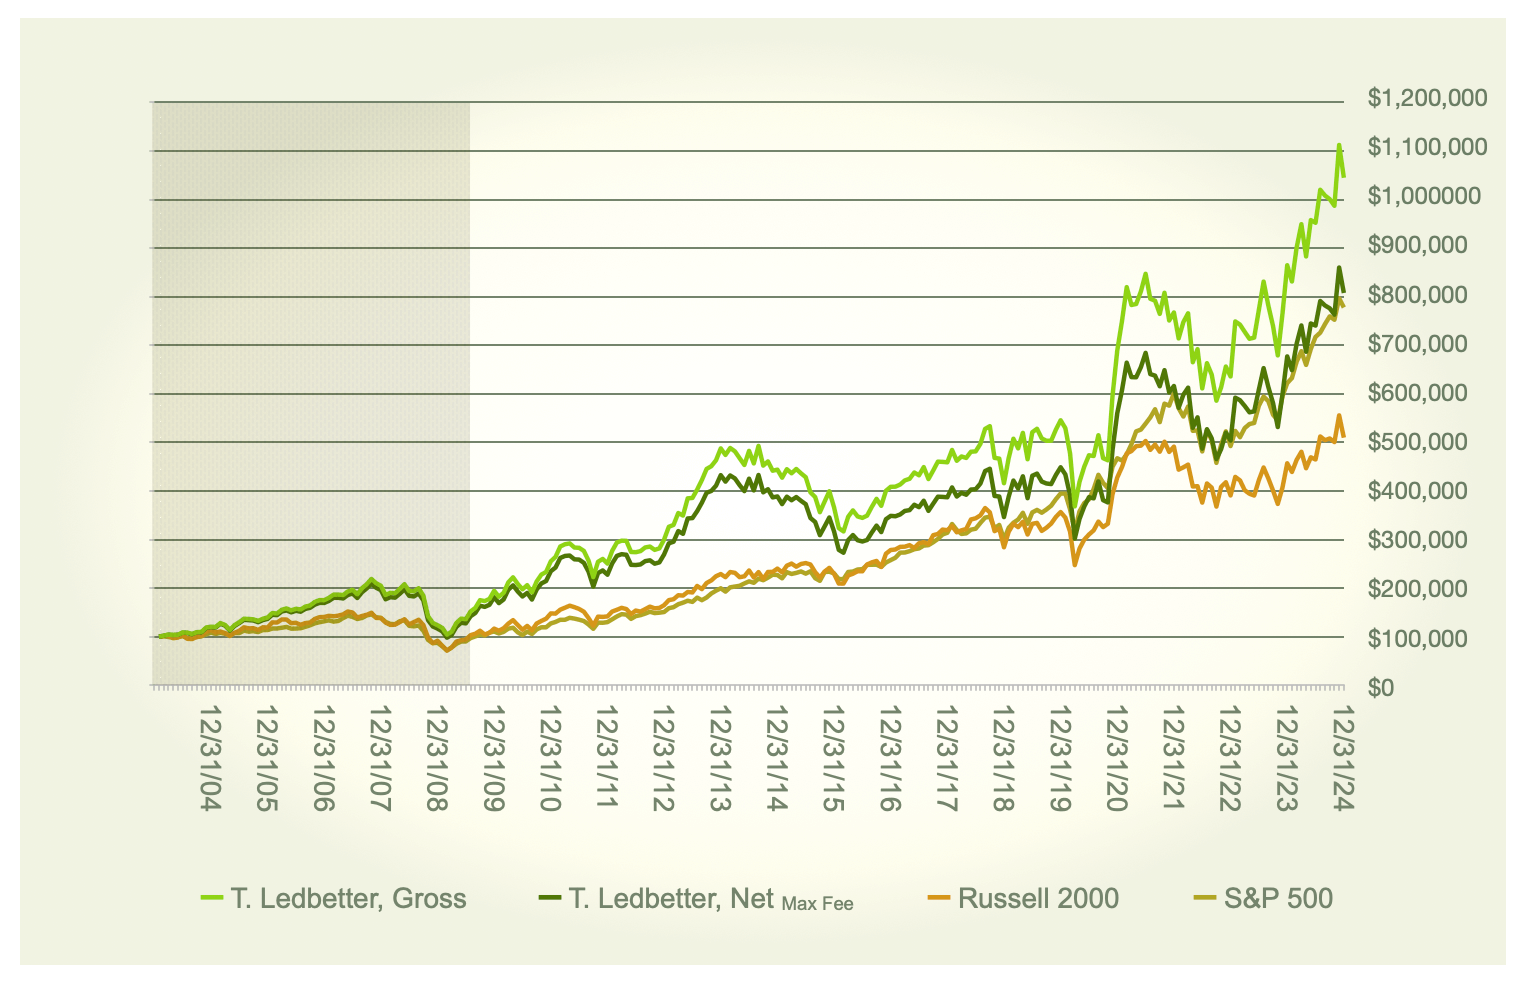
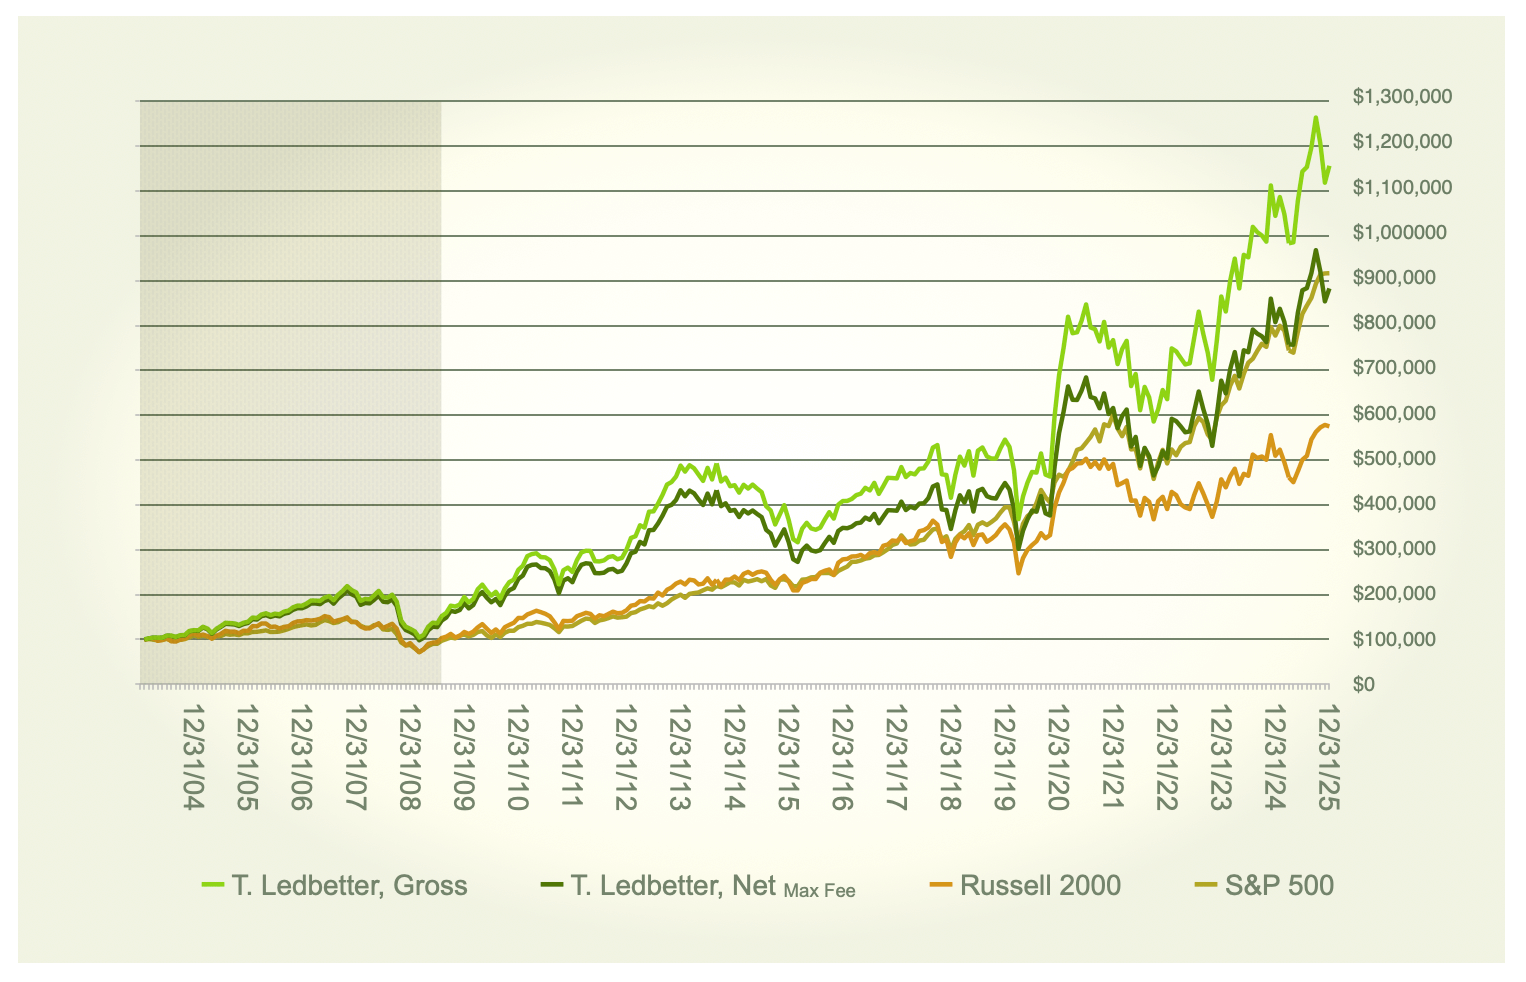
jan 2026 updates

diff --git a/performance.html b/performance.html
@@ -16,7 +16,7 @@ title: Performance
         <br>of Terry Ledbetter, <div style="display:inline-block"> Jr., CFA</div>
       </h1>
 
-      <div class="performSubHead" class="subHead">Growth of $100,000 from 2/3/04 to 12/31/24</div>
+      <div class="performSubHead" class="subHead">Growth of $100,000 from 2/3/04 to 12/31/25</div>
     </div>
   </div><!--end row -->
 
@@ -44,7 +44,7 @@ title: Performance
     <div class="span10 offset1">
       <h1 class="performHead">Historical Performance<br> of Kopion Asset Management, LLC </h1>
 
-      <div class="performSubHead" class="subHead">Growth of $100,000 from 8/23/09 to 12/31/24</div>
+      <div class="performSubHead" class="subHead">Growth of $100,000 from 8/23/09 to 12/31/25</div>
     </div>
   </div><!--end row -->
 
